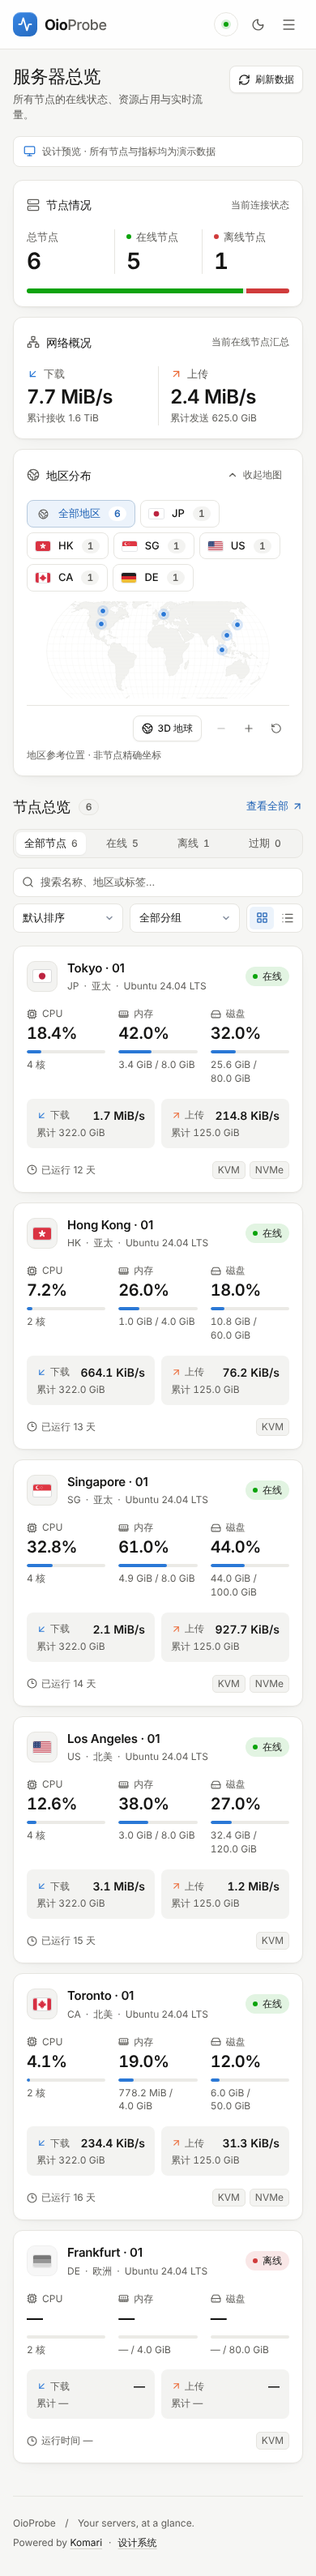
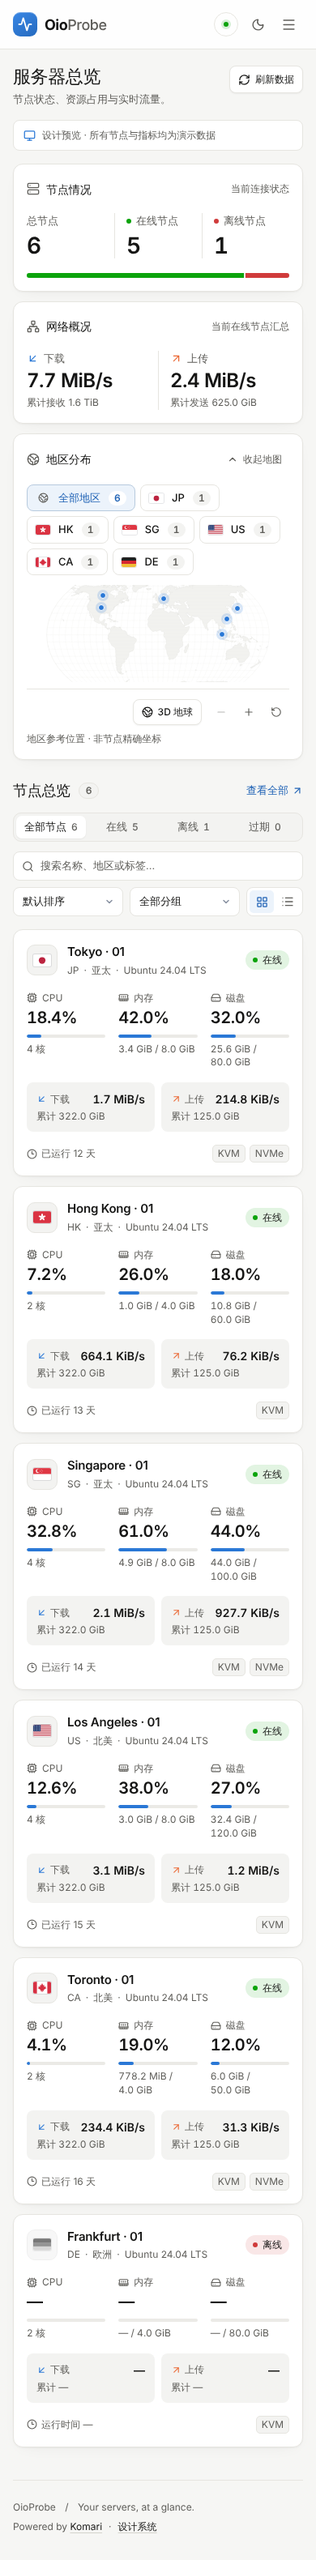
fix(theme): resolve narrow-screen overflow and polish found in review
- Traffic tiles wrap the rate under its label instead of spilling out of
  narrow tiles (two-column cards at ~681px, detail page at 320px)
- Stacked list-view rows stretch to full width on phones; the status badge
  no longer overflows the card at 320px
- Health bar sizes segments proportionally and renders only non-empty
  states, so gaps stay even and waiting-for-data nodes are represented
- Mobile menu also closes on a tap outside the header
- Unknown core count shows "—" consistently; shorter overview subtitle
  avoids a one-character orphan on phones
- Regression tests for content clipping at 320/681px in grid, list and
  detail views, outside-tap menu close, and health bar segments

Claude-Session: https://claude.ai/code/session_01WLiKNuqf8FJUrzcRcUdwFK

diff --git a/apps/theme/src/App.tsx b/apps/theme/src/App.tsx
@@ -1,4 +1,4 @@
-import { useEffect, useRef, useState } from "react";
+import { useEffect, useRef, useState, type CSSProperties } from "react";
 import {
   Activity,
   ArrowDownLeft,
@@ -48,7 +48,7 @@ const nav = [
   ["settings", "设置", Settings2],
 ] as const;
 const subtitles: Record<string, string> = {
-  overview: "所有节点的在线状态、资源占用与实时流量。",
+  overview: "节点状态、资源占用与实时流量。",
   nodes: "搜索、筛选并比较每个节点的资源占用。",
   network: "延迟、丢包与链路质量分析。",
   alerts: "告警规则、通知渠道与事件记录。",
@@ -127,8 +127,14 @@ export default function App() {
   useEffect(() => {
     if (!menu) return;
     const close = (e: KeyboardEvent) => e.key === "Escape" && setMenu(false);
+    const outside = (e: PointerEvent) =>
+      !(e.target as Element).closest?.(".site-header") && setMenu(false);
     window.addEventListener("keydown", close);
-    return () => window.removeEventListener("keydown", close);
+    window.addEventListener("pointerdown", outside);
+    return () => {
+      window.removeEventListener("keydown", close);
+      window.removeEventListener("pointerdown", outside);
+    };
   }, [menu]);
   const title =
     nav.find((n) => n[0] === page)?.[1] ??
@@ -339,7 +345,6 @@ function Overview({ probe }: { probe: Probe }) {
       ? values.reduce((a, v) => a + v, 0)
       : null;
   };
-  const share = (n: number) => `${(n / Math.max(1, nodes.length)) * 100}%`;
   return (
     <>
       <div className="probe-summary">
@@ -374,22 +379,30 @@ function Overview({ probe }: { probe: Probe }) {
             </div>
           </div>
           <div className="health-bar" aria-hidden="true">
-            {live && nodes.length ? (
-              <>
-                <span
-                  className="online"
-                  style={{ width: share(online.length) }}
-                />
-                <span
-                  className="stale"
-                  style={{ width: share(stale.length) }}
-                />
-                <span
-                  className="offline"
-                  style={{ width: share(offline.length) }}
-                />
-              </>
-            ) : null}
+            {live
+              ? (
+                  [
+                    ["online", online.length],
+                    ["stale", stale.length],
+                    ["offline", offline.length],
+                    [
+                      "unknown",
+                      nodes.length -
+                        online.length -
+                        stale.length -
+                        offline.length,
+                    ],
+                  ] as const
+                )
+                  .filter(([, count]) => count > 0)
+                  .map(([state, count]) => (
+                    <span
+                      key={state}
+                      className={state}
+                      style={{ "--share": count } as CSSProperties}
+                    />
+                  ))
+              : null}
           </div>
         </section>
         <section className="panel network-summary">

diff --git a/apps/theme/src/styles.css b/apps/theme/src/styles.css
@@ -562,6 +562,7 @@ footer a:hover {
 }
 .health-bar span {
   display: block;
+  flex: var(--share) 0 0;
   height: 100%;
 }
 .health-bar .online {
@@ -572,6 +573,9 @@ footer a:hover {
 }
 .health-bar .offline {
   background: var(--danger);
+}
+.health-bar .unknown {
+  background: var(--border-strong);
 }
 
 /* ── Geography ────────────────────────────────────────────────────────── */
@@ -1178,11 +1182,13 @@ footer a:hover {
   grid-template-columns: 1fr 1fr;
   gap: 8px;
 }
+/* Label and rate share a row when they fit; otherwise the rate wraps below. */
 .node-traffic > div,
 .detail-traffic > div {
-  display: grid;
-  grid-template-columns: auto 1fr;
+  display: flex;
+  flex-wrap: wrap;
   align-items: center;
+  justify-content: space-between;
   gap: 2px 8px;
   min-width: 0;
   padding: 10px 12px;
@@ -1202,13 +1208,12 @@ footer a:hover {
 .detail-traffic b {
   font-size: 14px;
   font-weight: 600;
-  text-align: right;
   white-space: nowrap;
   font-variant-numeric: tabular-nums;
 }
 .node-traffic small,
 .detail-traffic small {
-  grid-column: 1 / -1;
+  flex-basis: 100%;
   color: var(--muted);
   font-variant-numeric: tabular-nums;
 }
@@ -1276,12 +1281,6 @@ footer a:hover {
 .list-view .node-traffic {
   grid-column: 3;
   grid-row: 1 / 3;
-}
-.list-view .node-traffic > div {
-  grid-template-columns: 1fr;
-}
-.list-view .node-traffic b {
-  text-align: left;
 }
 
 /* ── States ───────────────────────────────────────────────────────────── */
@@ -1759,12 +1758,6 @@ dd {
     grid-column: 1 / -1;
     grid-row: 3;
   }
-  .list-view .node-traffic > div {
-    grid-template-columns: auto 1fr;
-  }
-  .list-view .node-traffic b {
-    text-align: right;
-  }
   .connection-label {
     position: absolute;
     width: 1px;
@@ -1960,8 +1953,11 @@ dd {
     grid-template-columns: 1fr;
     gap: 12px;
   }
+  /* Stacked list rows behave exactly like cards on phones. */
   .list-view .node-card {
     display: flex;
+    align-items: stretch;
+    gap: 16px;
     padding: 16px;
   }
   .list-view .node-bottom {
@@ -1969,12 +1965,6 @@ dd {
   }
   .list-view .node-meters .meter > small {
     display: block;
-  }
-  .list-view .node-traffic > div {
-    grid-template-columns: auto 1fr;
-  }
-  .list-view .node-traffic b {
-    text-align: right;
   }
   .node-card {
     padding: 16px;
@@ -2035,7 +2025,8 @@ dd {
   .network-summary-grid strong {
     font-size: 20px;
   }
-  .node-card {
+  .node-card,
+  .list-view .node-card {
     padding: 14px;
   }
   .node-meters {

diff --git a/tests/theme.spec.ts b/tests/theme.spec.ts
@@ -313,6 +313,11 @@ test("system theme default, status counts, remembered view, menu escape", async 
   await expect(
     page.getByRole("link", { name: "告警", exact: true }),
   ).toBeHidden();
+  await page.getByRole("button", { name: "打开导航" }).click();
+  await page.getByRole("heading", { name: "全部节点" }).click();
+  await expect(
+    page.getByRole("link", { name: "告警", exact: true }),
+  ).toBeHidden();
 });
 
 test("detail, list and settings pages meet WCAG AA in both themes", async ({
@@ -350,4 +355,42 @@ test("CPU history chart shows a crosshair tooltip on hover", async ({
   await expect(page.locator(".chart-tooltip")).toContainText(/CPU \d+\.\d%/);
   await page.getByRole("heading", { name: "CPU 历史" }).hover();
   await expect(page.locator(".chart-tooltip")).toHaveCount(0);
+});
+
+test("cards, traffic tiles and detail panels never clip content on narrow screens", async ({
+  page,
+}) => {
+  const spills = () =>
+    page.evaluate(() =>
+      [
+        ...document.querySelectorAll(
+          ".node-card, .node-card *, .detail-grid, .detail-grid *",
+        ),
+      ]
+        .filter((el) => el.scrollWidth > el.clientWidth + 1 && el.clientWidth)
+        .filter((el) => getComputedStyle(el).textOverflow !== "ellipsis")
+        .map((el) => `${el.className}: ${el.textContent?.slice(0, 24)}`),
+    );
+  for (const width of [320, 681]) {
+    await page.setViewportSize({ width, height: 900 });
+    for (const view of ["卡片视图", "列表视图"]) {
+      await page.goto("/#/nodes");
+      await page.getByRole("button", { name: view }).click();
+      expect(await spills(), `${view} at ${width}px`).toEqual([]);
+    }
+    await page.goto("/#/nodes/tokyo");
+    await expect(page.getByRole("heading", { name: "实时资源" })).toBeVisible();
+    expect(await spills(), `detail at ${width}px`).toEqual([]);
+  }
+});
+
+test("health bar shows one segment per non-empty node state", async ({
+  page,
+}) => {
+  await page.goto("/#/overview");
+  const bar = page.locator(".health-bar");
+  await expect(bar.locator("span")).toHaveCount(2);
+  await expect(bar.locator(".online")).toBeVisible();
+  await expect(bar.locator(".offline")).toBeVisible();
+  await expect(bar.locator(".stale")).toHaveCount(0);
 });

diff --git a/apps/theme/src/components/Metrics.tsx b/apps/theme/src/components/Metrics.tsx
@@ -114,7 +114,7 @@ export function NodeCard({
           icon={<Cpu size={13} />}
           label="CPU"
           value={r?.cpu ?? null}
-          detail={`${node.cores} 核`}
+          detail={`${node.cores || "—"} 核`}
         />
         <Meter
           icon={<MemoryStick size={13} />}
